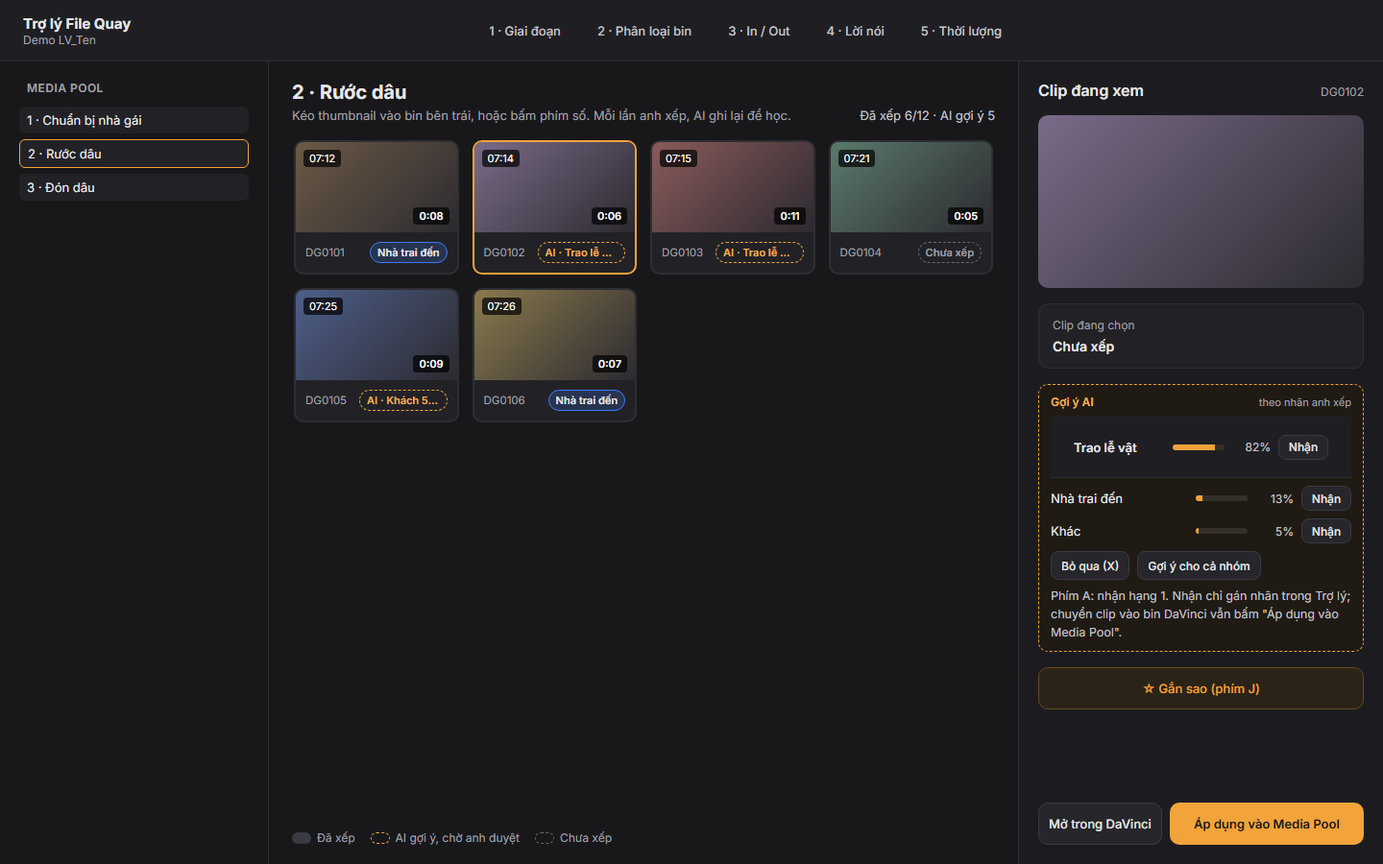
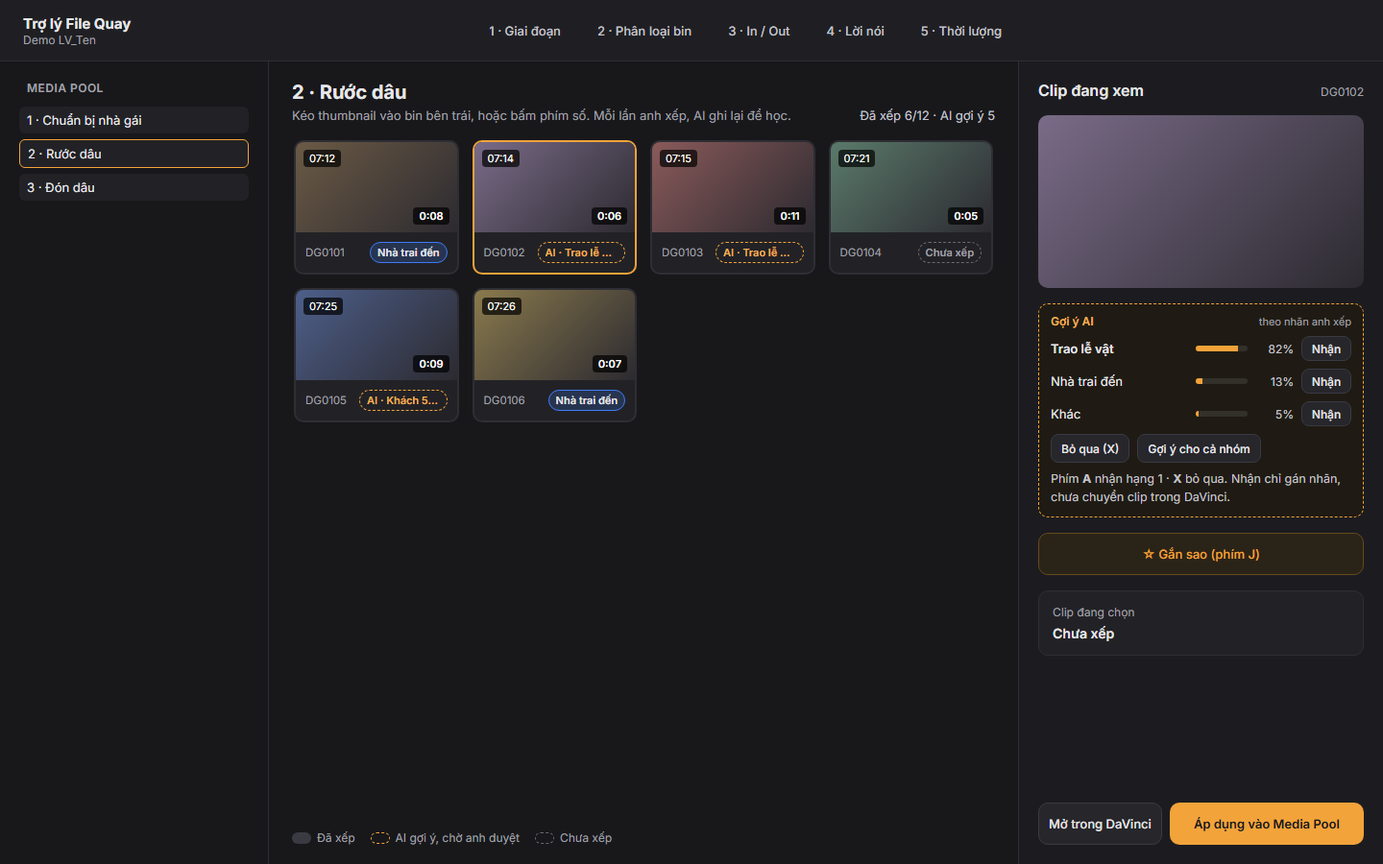
Gợi ý AI trong Bước 2 của panel: hộp hạng 1-3, Nhận/Bỏ qua, nhóm, phím A/X, chạy nền; ADR-0022; 4 bài test giao diện

Changed region(s): [[0.75, 0.3422, 0.9688, 0.6222], [0.75, 0.6222, 0.9688, 0.7467], [0.8438, 0.7778, 0.9062, 0.8089]]

diff --git a/app/troly_web/ai.js b/app/troly_web/ai.js
@@ -1,0 +1,131 @@
+/* Bước 2: Gợi ý AI (ADR-0022; demo design/6_ai_goi_y). CHỈ GỢI Ý: "Nhận" chỉ gán nhãn trong Trợ lý (api().ai_accept), không gọi DaVinci.
+   Chuyển clip vào bin trong DaVinci vẫn là nút "Áp dụng vào Media Pool" (có nhật ký + Hoàn tác). Phím đọc bằng event.code. */
+const AI = { info: null, cache: {}, group: null, poll: null, wasRunning: false, seq: 0 };
+const AI_MIN_GROUP = 0.7;                                   // ngưỡng "Nhận hạng 1 cho clip có điểm từ 70%"
+
+function aiPct(x) { return Math.round(x * 100); }
+function aiSrcText(src) { return src === "nhan" ? "theo nhãn anh xếp" : "theo mô tả"; }
+function aiKey(uid) {                                          // khóa để vẽ lại thẻ khi gợi ý đổi
+  const g = AI.group && AI.group[uid]; return g && g.top ? g.top[0].bin + aiPct(g.top[0].score) : "";
+}
+
+async function aiRefreshInfo() {
+  try { AI.info = await api().ai_info(); } catch (e) { AI.info = null; }
+  if (AI.info && AI.info.running && !AI.poll) AI.poll = setInterval(aiTick, 1500);
+  if (AI.info && !AI.info.running && AI.poll) { clearInterval(AI.poll); AI.poll = null; }
+  return AI.info;
+}
+async function aiTick() {
+  const was = AI.info && AI.info.running;
+  await aiRefreshInfo();
+  if (was && AI.info && !AI.info.running) {                    // vừa chạy xong (hoặc bị dừng): làm mới gợi ý
+    AI.cache = {};
+    if (AI.group) await aiGroupLoad();
+    status(AI.info.has_data ? "AI đã chạy xong. Có gợi ý cho clip chưa xếp." : "AI đã dừng. Bấm Chạy AI để làm tiếp.");
+  }
+  aiBoxRender();
+}
+
+async function aiForCur() {
+  const c = items[cur]; if (!c) return null;
+  const k = c.uid + "|" + (c.label || "");
+  if (AI.cache[k] === undefined) {
+    const r = await api().ai_for([c.uid]);
+    AI.cache[k] = r[c.uid] || null;
+  }
+  return AI.cache[k];
+}
+
+function aiButtons(list) {                                      // list: [[id, chữ, tắt?]]
+  $("aiActs").innerHTML = list.map(([id, t, off, tip]) => `<button class="btn" id="${id}"${off ? " disabled" : ""}${tip ? ` title="${esc(tip)}"` : ""}>${esc(t)}</button>`).join("");
+}
+
+async function aiBoxRender() {
+  const box = $("aiBox"); if (!box || page !== 2) return;
+  const mySeq = ++AI.seq;
+  const info = AI.info || await aiRefreshInfo();
+  if (mySeq !== AI.seq) return;
+  const c = items[cur];
+  $("aiSrc").textContent = info && info.has_data ? aiSrcText(info.mode) : "";
+  if (!info) { $("aiBody").innerHTML = '<span class="ai-msg">Chưa đọc được trạng thái AI.</span>'; aiButtons([]); return; }
+  if (info.running) {
+    $("aiBody").innerHTML = `<span class="ai-msg">AI đang chạy nền (không ảnh hưởng DaVinci)…<br>${esc(info.log || "")}</span>`;
+    aiButtons([["aiStop", "Dừng"]]); return;
+  }
+  if (!info.has_data) {
+    $("aiBody").innerHTML = '<span class="ai-msg">Chưa chạy AI cho project này. AI so thumbnail với mô tả từng bin (và học từ nhãn anh xếp khi đủ ' + info.min_labels + ' clip). Chạy trên máy này, mất vài giây đến vài phút.</span>';
+    aiButtons([["aiRun", "Chạy AI (nền)", !info.can_run, info.can_run ? "" : "Chưa có venv AI hoặc model, xem ADR-0020"]]); return;
+  }
+  const grp = AI.group ? Object.values(AI.group).filter((g) => g.top) : null;
+  const acts = [];
+  let body = "";
+  if (!c) body = '<span class="ai-msg">Chọn một clip để xem gợi ý.</span>';
+  else if (c.label) body = `<span class="ai-msg">Clip đã xếp vào "${esc(c.label)}", không gợi ý. (Bấm 0 để bỏ nhãn.)</span>`;
+  else {
+    const r = await aiForCur();
+    if (mySeq !== AI.seq) return;
+    if (r && r.skipped) { body = '<span class="ai-msg">Đã bỏ qua gợi ý cho clip này.</span>'; acts.push(["aiUnskip", "Hiện lại gợi ý"]); }
+    else if (!r) body = '<span class="ai-msg">Clip này chưa có gợi ý (chưa có thumbnail/vector, hoặc chưa thuộc giai đoạn nào). Bấm "Chạy lại AI" để cập nhật.</span>';
+    else {
+      $("aiSrc").textContent = aiSrcText(r.src);
+      body = r.top.map((t, i) => `<div class="ai-row${i === 0 ? " first" : ""}"><span class="nm" title="${esc(t.bin)}">${esc(t.bin)}</span><span class="ai-bar"><i style="width:${aiPct(t.score)}%"></i></span><span class="pc">${aiPct(t.score)}%</span><button class="btn" data-ai-take="${esc(t.bin)}">Nhận</button></div>`).join("");
+      acts.push(["aiSkip", "Bỏ qua (X)"]);
+    }
+  }
+  if (grp) {
+    const n = grp.filter((g) => g.top[0].score >= AI_MIN_GROUP).length;
+    body += `<span class="ai-msg">Nhóm đang xem: ${grp.length} clip có gợi ý (thẻ viền đứt trên lưới), ${n} clip từ ${aiPct(AI_MIN_GROUP)}%.</span>`;
+    acts.push(["aiTakeAll", `Nhận hạng 1 cho ${n} clip`, !n], ["aiGroupOff", "Tắt gợi ý nhóm"]);
+  } else acts.push(["aiGroup", "Gợi ý cho cả nhóm"]);
+  acts.push(["aiRun", "Chạy lại AI", !info.can_run]);
+  $("aiBody").innerHTML = body;
+  aiButtons(acts);
+}
+
+async function aiGroupLoad() {
+  const uids = items.map((c) => c.uid);
+  AI.group = await api().ai_for(uids);
+  for (const u in AI.group) if (AI.group[u].skipped) delete AI.group[u];
+  patchGrid();
+}
+
+async function aiTake(pairs) {                                  // pairs: [[uid, bin]] -> chỉ gán nhãn trong kế hoạch Trợ lý
+  if (!pairs.length) return;
+  keepCur = cur;
+  const st = await api().ai_accept(pairs);
+  if (st.error) { keepCur = null; return status(st.error, "warn"); }
+  AI.cache = {};
+  setState(st);
+  keepCur = null;
+  if (AI.group) { for (const [u] of pairs) delete AI.group[u]; patchGrid(); }
+  status(`Đã nhận ${st.ai_accepted} gợi ý (chỉ gán nhãn trong Trợ lý; chưa chuyển gì trong DaVinci).` + (st.ai_bad ? ` ${st.ai_bad} clip bị bỏ qua vì bin không thuộc giai đoạn.` : ""));
+  if (pairs.length === 1 && cur < items.length - 1) moveCur(cur + 1);
+  aiBoxRender();
+}
+
+$("aiBox").addEventListener("click", async (e) => {
+  const t = e.target.closest("button"); if (!t || t.disabled) return;
+  const c = items[cur];
+  if (t.dataset.aiTake && c) return aiTake([[c.uid, t.dataset.aiTake]]);
+  if (t.id === "aiRun") { const r = await api().ai_run(); if (r.error) return status(r.error, "warn"); AI.info = r; AI.cache = {}; await aiRefreshInfo(); return aiBoxRender(); }
+  if (t.id === "aiStop") { AI.info = await api().ai_stop(); status("Đã gửi lệnh dừng; AI dừng sau lô ảnh hiện tại. Chạy lại để làm tiếp."); return aiBoxRender(); }
+  if (t.id === "aiSkip" && c) { await api().ai_skip([c.uid]); AI.cache = {}; if (AI.group) delete AI.group[c.uid]; patchGrid(); return aiBoxRender(); }
+  if (t.id === "aiUnskip" && c) { await api().ai_skip([c.uid], true); AI.cache = {}; return aiBoxRender(); }
+  if (t.id === "aiGroup") { await aiGroupLoad(); return aiBoxRender(); }
+  if (t.id === "aiGroupOff") { AI.group = null; patchGrid(); return aiBoxRender(); }
+  if (t.id === "aiTakeAll" && AI.group) {
+    const pairs = items.filter((x) => AI.group[x.uid] && AI.group[x.uid].top && AI.group[x.uid].top[0].score >= AI_MIN_GROUP).map((x) => [x.uid, AI.group[x.uid].top[0].bin]);
+    const ok = await ask("Nhận gợi ý AI cho cả nhóm", `Gán nhãn hạng 1 của AI cho <b>${pairs.length}</b> clip (điểm từ ${aiPct(AI_MIN_GROUP)}%). Chỉ ghi nhãn trong Trợ lý; chưa chuyển gì trong DaVinci, anh vẫn bấm "Áp dụng vào Media Pool" khi muốn. Bỏ nhãn từng clip bằng phím 0.`, "Nhận " + pairs.length + " clip");
+    if (ok) aiTake(pairs);
+  }
+});
+
+document.addEventListener("keydown", (e) => {                   // A nhận hạng 1, X bỏ qua; chỉ ở Bước 2, không khi đang gõ chữ
+  if (page !== 2 || e.ctrlKey || e.altKey || e.metaKey || e.shiftKey) return;
+  if (/INPUT|SELECT|TEXTAREA/.test(e.target.tagName) || e.target.isContentEditable) return;
+  if (e.code !== "KeyA" && e.code !== "KeyX") return;
+  const c = items[cur]; if (!c || c.label || !AI.info || !AI.info.has_data || AI.info.running) return;
+  e.preventDefault();
+  if (e.code === "KeyX") { const b = $("aiSkip"); if (b) b.click(); return; }
+  const first = document.querySelector("#aiBody [data-ai-take]"); if (first) first.click();
+});

diff --git a/app/troly_web/app.js b/app/troly_web/app.js
@@ -465,8 +465,12 @@ function sameItems() {
 function tagHtml(c) {
   const s = stageObj();
   const b = s && c.label ? s.bins.find((x) => x.name === c.label) : null;
-  return b ? `<span class="tag" style="background:${b.color}33;color:var(--text);border:1px solid ${b.color}">${esc(b.name)}</span>` : `<span class="tag none">Chưa xếp</span>`;
+  if (b) return `<span class="tag" style="background:${b.color}33;color:var(--text);border:1px solid ${b.color}">${esc(b.name)}</span>`;
+  const g = !c.label && AI.group && AI.group[c.uid];                      // gợi ý AI của cả nhóm (ai.js): viền đứt, chờ anh duyệt
+  if (g && g.top) return `<span class="tag ai" title="${esc("AI gợi ý (chờ anh duyệt): " + g.top.map((t) => t.bin + " " + Math.round(t.score * 100) + "%").join(" · "))}">AI · ${esc(g.top[0].bin)} ${Math.round(g.top[0].score * 100)}%</span>`;
+  return `<span class="tag none">Chưa xếp</span>`;
 }
+function cardKey(c) { return (c.label || "") + "|" + aiKey(c.uid); }
 function setThumb(box, src) {
   let img = box.querySelector("img");
   if (!img) { img = document.createElement("img"); img.draggable = false; box.prepend(img); const ic = box.querySelector("svg"); if (ic) ic.remove(); }
@@ -475,7 +479,7 @@ function setThumb(box, src) {
 const PLAY = '<svg width="28" height="28" viewBox="0 0 24 24" fill="none" stroke="#FFFFFF" stroke-opacity="0.55" stroke-width="1.6" stroke-linecap="round" stroke-linejoin="round" aria-hidden="true"><rect x="3" y="5" width="18" height="14" rx="2"></rect><path d="M10 9.5l4 2.5-4 2.5z"></path></svg>';
 function renderGrid() {
   $("grid").innerHTML = items.length ? items.map((c, i) => `
-    <div class="card${i === cur ? " cur" : sel.has(i) ? " picked" : ""}${c.star ? " starred" : ""}" data-i="${i}" data-uid="${esc(c.uid)}" data-label="${esc(c.label || "")}" draggable="true">
+    <div class="card${i === cur ? " cur" : sel.has(i) ? " picked" : ""}${c.star ? " starred" : ""}" data-i="${i}" data-uid="${esc(c.uid)}" data-label="${esc(cardKey(c))}" draggable="true">
       <div class="thumb">${thumbs[c.uid] ? `<img src="${thumbs[c.uid]}" draggable="false">` : PLAY}<span class="badge tl">${c.time}</span><span class="badge br">${durTxt(c.dur)}</span>${c.star ? '<span class="star-badge">★</span>' : ""}</div>
       <div class="card-foot"><span class="f">${esc(c.name)}</span>${tagHtml(c)}</div>
     </div>`).join("") : `<div class="empty">${S && S.n ? "Không có clip." : 'Bấm "Đọc clip" ở bước 1 trước.'}</div>`;
@@ -488,7 +492,7 @@ function patchGrid() {
     const hasStar = !!el.querySelector(".star-badge");
     if (!!c.star !== hasStar) { if (c.star) el.querySelector(".thumb").insertAdjacentHTML("beforeend", '<span class="star-badge">★</span>'); else el.querySelector(".star-badge").remove(); }
     if (el.className !== cls) el.className = cls;               // chỉ đổi class, không dựng lại ô
-    const key = c.label || "";
+    const key = cardKey(c);
     if (el.dataset.label !== key) { el.dataset.label = key; el.querySelector(".tag").outerHTML = tagHtml(c); }
   });
 }
@@ -789,6 +793,7 @@ async function showCur() {
   $("starToggleBtn").textContent = c.star ? "★ Bỏ sao (phím J)" : "☆ Gắn sao (phím J)";
   $("starToggleBtn").classList.toggle("active", !!c.star);
   renderPage3Cur(c);
+  aiBoxRender();                                           // hộp Gợi ý AI (ai.js)
   $("curBin").textContent = c.label ? c.label : "Chưa xếp";
   const src = { created: "Date Created", modified: "Date Modified − độ dài", none: "không rõ" }[c.src] || c.src;
   $("curInfo").textContent = `Giờ quay ${c.time} (${src}) · dài ${durTxt(c.dur)}\nMáy ${c.camera}\nHình: ${notes[c.uid] || "đang làm..."}\nLUT: ${c.lut || "(không gắn)"}` +

diff --git a/design/6_ai_goi_y/index.html b/design/6_ai_goi_y/index.html
@@ -22,16 +22,16 @@
 <aside class="col-right">
   <div class="row-between baseline"><h2>Clip đang xem</h2><span class="dim12">DG0102</span></div>
   <div class="preview" style="background:linear-gradient(135deg,#7a6b88,#2c2a30);height:180px"></div>
-  <div class="info-box"><span class="dim12">Clip đang chọn</span><span class="b14">Chưa xếp</span></div>
   <div class="ai-box">
     <div class="ai-head"><span class="ai-title">Gợi ý AI</span><span class="ai-src">theo nhãn anh xếp</span></div>
     <div class="ai-row first"><span class="nm">Trao lễ vật</span><span class="ai-bar"><i style="width:82%"></i></span><span class="pc">82%</span><button class="btn">Nhận</button></div>
     <div class="ai-row"><span class="nm">Nhà trai đến</span><span class="ai-bar"><i style="width:13%"></i></span><span class="pc">13%</span><button class="btn">Nhận</button></div>
     <div class="ai-row"><span class="nm">Khác</span><span class="ai-bar"><i style="width:5%"></i></span><span class="pc">5%</span><button class="btn">Nhận</button></div>
     <div class="ai-acts"><button class="btn">Bỏ qua (X)</button><button class="btn">Gợi ý cho cả nhóm</button></div>
-    <span class="ai-msg">Phím A: nhận hạng 1. Nhận chỉ gán nhãn trong Trợ lý; chuyển clip vào bin DaVinci vẫn bấm "Áp dụng vào Media Pool".</span>
+    <span class="ai-msg">Phím <b>A</b> nhận hạng 1 · <b>X</b> bỏ qua. Nhận chỉ gán nhãn, chưa chuyển clip trong DaVinci.</span>
   </div>
   <button class="btn btn-star btn-44">☆ Gắn sao (phím J)</button>
+  <div class="info-box"><span class="dim12">Clip đang chọn</span><span class="b14">Chưa xếp</span></div>
   <div class="flex1"></div>
   <div class="v8"><div class="inline8"><button class="btn btn-44">Mở trong DaVinci</button><button class="btn-accent btn-44 flex1">Áp dụng vào Media Pool</button></div></div>
 </aside>

diff --git a/app/troly_web/index.html b/app/troly_web/index.html
@@ -133,7 +133,7 @@
     </div>
     <div class="legend">
       <span><i class="pill-solid"></i>Đã xếp</span>
-      <span class="legend-off"><i class="pill-ai"></i>AI gợi ý, chờ anh duyệt (sắp có)</span>
+      <span><i class="pill-ai"></i>AI gợi ý, chờ anh duyệt</span>
       <span><i class="pill-none"></i>Chưa xếp</span>
       <span class="flex1"></span>
       <button class="btn-link hidden" id="undoBtn2">Hoàn tác lần chuyển gần nhất</button>
@@ -158,6 +158,12 @@
         <div class="row-between dim12"><span id="plTime">00:00:00 / 00:00:00</span><span id="plNote"></span></div>
       </div>
     </div></div>
+    <div class="ai-box" id="aiBox">
+      <div class="ai-head"><span class="ai-title">Gợi ý AI</span><span class="ai-src" id="aiSrc"></span></div>
+      <div id="aiBody"></div>
+      <div class="ai-acts" id="aiActs"></div>
+      <span class="ai-msg">Phím <b>A</b> nhận hạng 1 · <b>X</b> bỏ qua. Nhận chỉ gán nhãn, chưa chuyển clip trong DaVinci.</span>
+    </div>
     <button class="btn btn-star btn-44" id="starToggleBtn">☆ Gắn sao (phím J)</button>
     <span class="dim12">Đặt điểm In / Out ở bước 3 · In / Out (có sóng âm và bảng quy tắc).</span>
     <div class="info-box">
@@ -342,5 +348,6 @@
 <script src="player.js"></script>
 <script src="speech.js"></script>
 <script src="step3.js"></script>
+<script src="ai.js"></script>
 </body>
 </html>

diff --git a/app/troly_web/style.css b/app/troly_web/style.css
@@ -457,3 +457,6 @@ button, input, select { font-family: inherit; }
 .ai-acts { display: flex; gap: 8px; flex-wrap: wrap; }
 .ai-acts .btn { height: 30px; padding: 0 10px; font-size: 12px; }
 .tag.ai { border: 1px dashed var(--accent); color: var(--link); background: transparent; }
+/* cột phải Bước 2 dài hơn màn hình thấp: hai nút Áp dụng luôn dính đáy, phần còn lại cuộn */
+#page2 .col-right .v8 { position: sticky; bottom: -20px; background: var(--right); padding: 10px 0 20px; margin-bottom: -20px; z-index: 3; }
+#page2 .col-right > :not(.flex1) { flex-shrink: 0; }          /* cột dài hơn màn hình thì cuộn, không bóp nút/ô */

diff --git a/tests/test_troly_ai_web.py b/tests/test_troly_ai_web.py
@@ -1,0 +1,47 @@
+"""Giao diện gợi ý AI ở Bước 2 (ADR-0022): phần tử có mặt, chữ hướng dẫn có chức năng thật, phím đọc bằng event.code, không gọi DaVinci."""
+import os
+import re
+import unittest
+
+WEB = os.path.join(os.path.dirname(os.path.abspath(__file__)), "..", "app", "troly_web")
+
+
+def rd(n):
+    with open(os.path.join(WEB, n), encoding="utf-8") as f:
+        return f.read()
+
+
+class AiWeb(unittest.TestCase):
+    def setUp(self):
+        self.html, self.js, self.app = rd("index.html"), rd("ai.js"), rd("app.js")
+
+    def test_phan_tu_va_id_khong_trung(self):
+        for i in ('id="aiBox"', 'id="aiSrc"', 'id="aiBody"', 'id="aiActs"'):
+            self.assertEqual(self.html.count(i), 1, i)
+        self.assertIn('<script src="ai.js"></script>', self.html)
+        ids = re.findall(r'\bid="([^"]+)"', self.html)
+        self.assertEqual(len(ids), len(set(ids)))
+        p2 = self.html[self.html.index('id="page2"'):self.html.index('id="page3"')]
+        self.assertIn('id="aiBox"', p2)                                                       # hộp nằm ở Bước 2
+
+    def test_chu_huong_dan_co_chuc_nang_that(self):
+        self.assertIn("Phím <b>A</b> nhận hạng 1", self.html)
+        self.assertIn('e.code !== "KeyA" && e.code !== "KeyX"', self.js)                      # A nhận, X bỏ qua
+        for fn in ("ai_info", "ai_for", "ai_accept", "ai_skip", "ai_run", "ai_stop"):
+            self.assertIn("api()." + fn, self.js, fn)
+        self.assertIn("AI gợi ý, chờ anh duyệt</span>", self.html)                            # chú thích lưới không còn "sắp có"
+        self.assertIn('class="tag ai"', self.app)                                             # thẻ gợi ý viền đứt trên lưới
+
+    def test_phim_doc_bang_event_code_va_bo_qua_o_go_chu(self):
+        self.assertNotRegex(self.js, r"\be\.key\b")
+        self.assertIn("INPUT|SELECT|TEXTAREA", self.js)
+        self.assertIn("page !== 2", self.js)
+
+    def test_khong_goi_davinci_tu_gio_dien_ai(self):
+        for bad in ("api().apply", "api().move(", "api().append", "inout_write", "SetMarkInOut", "MoveClips", "api().label(", "api().undo"):
+            self.assertNotIn(bad, self.js, bad)
+        self.assertIn("await ask(", self.js[self.js.index('t.id === "aiTakeAll"'):])           # nhận cả nhóm phải qua hộp xác nhận
+
+
+if __name__ == "__main__":
+    unittest.main()

diff --git a/docs/adr/0022-goi-y-ai-trong-buoc-2-hoc-tu-nhan-tay.md b/docs/adr/0022-goi-y-ai-trong-buoc-2-hoc-tu-nhan-tay.md
@@ -1,0 +1,29 @@
+# ADR-0022: Gợi ý AI trong Bước 2 của panel, học từ nhãn tay
+
+Ngày 18/11/2026. Trạng thái: đã code + thử trong bàn thử trình duyệt với DaVinci thật (chỉ đọc); CHƯA mở cửa sổ pywebview thật; giao diện và demo CHƯA được người dùng duyệt (miễn duyệt trước lượt này).
+
+## Quyết định
+- AI chỉ GỢI Ý. "Nhận" chỉ gán NHÃN trong kế hoạch panel (`by = "ai_duyet"`), như người dựng xếp tay; chuyển clip vào bin trong DaVinci vẫn qua nút "Áp dụng vào Media Pool" (có nhật ký + Hoàn tác như cũ). AI không gọi DaVinci (có test chặn trong `troly_ai.py`, `ai.js` và các hàm `ai_*`).
+- Nguồn gợi ý, chọn theo từng project:
+  - từ 20 clip đã xếp tay (có vector) trở lên và ít nhất 3 clip đã xếp trong các bin của giai đoạn đang xét: học từ nhãn (kNN k=7 trên vector OpenCLIP, nhiệt độ 20), hiện "theo nhãn anh xếp";
+  - ít hơn: theo mô tả bin (ADR-0020), hiện "theo mô tả".
+- Thu hẹp theo giai đoạn: chỉ xét các bin của giai đoạn mà clip đang thuộc (giai đoạn đã tính theo giờ quay hoặc chọn tay). Điểm chuẩn hóa trong các bin đó, hạng 1-3.
+- Giao diện (cột phải Bước 2, theo design/6_ai_goi_y): hộp "Gợi ý AI" ngay dưới trình phát: 3 hàng bin + thanh điểm + % + nút Nhận; Bỏ qua (phím X), Nhận hạng 1 (phím A), "Gợi ý cho cả nhóm" (thẻ viền đứt trên lưới + "Nhận hạng 1 cho N clip" từ 70%, có hộp xác nhận), Chạy AI / Chạy lại / Dừng (nền, venv AI, dừng bằng cờ STOP, chạy tiếp được). Chưa chạy AI: hiện "Chưa chạy AI" và nút chạy. Hai nút Áp dụng dính đáy cột phải để không bị đẩy khỏi màn hình thấp (cột phải vốn dài hơn 900 px).
+- "Bỏ qua" lưu `plan["ai_skip"]` (chỉ trong kế hoạch panel). Gợi ý chỉ cho clip chưa xếp.
+
+## Số đo (project có 324 clip đã xếp tay; chỉ xét bin trong giai đoạn của clip)
+| Cách | hạng 1 | trong 3 đầu |
+|---|---|---|
+| Theo mô tả | 47% | 86% |
+| Học từ nhãn, bỏ từng clip ra (LOO, lạc quan vì clip liền kề giống nhau) | 85% | 97% |
+| Học từ nhãn, học 60% clip quay SỚM, đoán 40% quay MUỘN (sát thực tế) | 53% | 90% |
+
+Nhận xét: tách theo giai đoạn đã nâng "theo mô tả" từ 17% lên 47% (ADR-0020 đo trên cả 13 bin). Học từ nhãn hơn mô tả rõ khi các clip cùng cảnh nằm cả hai phía; với cảnh mới (chia theo giờ) chỉ hơn ~6 điểm ở hạng 1, nhưng hạng 3 đạt 90%: nên dùng như danh sách 3 lựa chọn để duyệt nhanh, không tin tuyệt đối.
+Chỉ 1/4 project có đủ nhãn tay (3 project còn lại 0, 0, 4 nhãn) nên CHƯA đo chéo project (học project này, đoán project kia); công cụ `tools/ai_cross.py` đã sẵn và sẽ tự đo khi có ≥ 2 project đủ nhãn.
+
+## Bảng ghép tên bin giữa các project (ĐỀ XUẤT, chưa áp)
+Cả 4 project dùng chung bộ tên bin mẫu (13 tên), nên hiện chưa cần ghép; file đề xuất `D:\VideoAI\data\troly\ai_suggest\bin_name_map_proposal.json` liệt kê các nhóm tên trùng chữ (không phân biệt dấu/hoa thường). Các cặp gần nghĩa cần anh duyệt trước khi gộp để học chung giữa project: "Gia đình cô dâu" ~ "Gia đình", "Beauty cô dâu" ~ "Cô dâu chú rể". Chưa tự áp; học từ nhãn hiện chỉ dùng nhãn của chính project đang mở.
+
+## Đã thử thật / chưa
+- Đã: bộ test (12 bài panel + 4 bài giao diện), bàn thử trình duyệt dùng giao diện + TrolyApi thật, đọc DaVinci thật (project đang mở, chỉ đọc), kế hoạch/AI là bản sao tạm: gợi ý hạng 1-3, thẻ AI trên lưới, A, X, Nhận cả nhóm (hộp xác nhận, 119 clip, chỉ ghi nhãn), chuyển từ "theo mô tả" sang "theo nhãn" sau khi đủ nhãn, chạy AI nền bằng venv AI (8 giây, thoát đúng), 1440x900, 1100x700, 1707x960 (4K 150%) không tràn ngang. Kế hoạch thật không bị thay đổi (so với bản sao lưu trước khi làm).
+- Chưa: mở cửa sổ pywebview thật; nút Dừng khi đang nhúng dở (đã thử cờ STOP và làm tiếp ở dòng lệnh, ADR-0020); độ chính xác trên project mới chưa có nhãn (chỉ ~47% hạng 1, ~86% trong 3 đầu).

diff --git a/TRANG_THAI.md b/TRANG_THAI.md
@@ -77,9 +77,10 @@
 - Số liệu: D:\VideoAI\data	roly\inout_stats\ (index.html, by_bin.csv, vs_rules.csv). Giải thích + bảng đề xuất: docs/adr/0021. CHƯA áp vào panel; chờ anh duyệt bảng ghép tên bin và giá trị đề xuất.
 - Chưa tách Truyền thống/PSC (kế hoạch panel chưa chọn kiểu quay).
 
-## Bước 6 AI nhúng vào panel (18/11/2026, nhánh inout-ai) - ĐANG LÀM
-- Xong phần sau (commit 369f798): app/troly_ai.py + TrolyApi.ai_info/ai_for/ai_accept/ai_skip/ai_run/ai_stop (gợi ý hạng 1-3 theo bin của giai đoạn, học từ nhãn tay khi >= 20 nhãn, Nhận chỉ gán nhãn, Bỏ qua, chạy nền venv AI), tools/ai_cross.py (đo + đề xuất ghép tên bin).
-- CÒN DỞ: demo design/6_ai_goi_y, giao diện Bước 2 (nút Gợi ý AI, hộp hạng 1-3, Nhận/Bỏ qua), ADR-0022. Giao diện + demo CHƯA được anh duyệt.
+## Bước 6 AI nhúng vào panel (18/11/2026) - CHỜ ANH THỬ; demo + giao diện CHƯA được anh duyệt
+- Bước 2 có hộp "Gợi ý AI" (hạng 1-3, Nhận, Bỏ qua, gợi ý cả nhóm, phím A/X, Chạy/Dừng AI nền). Nhận chỉ gán nhãn trong Trợ lý, KHÔNG chuyển clip trong DaVinci. Demo: design/6_ai_goi_y. Quyết định + số đo: docs/adr/0022.
+- Đủ 20 nhãn tay thì học từ nhãn, không thì theo mô tả. Số đo: mô tả 47%/86% (hạng 1 / trong 3 đầu); học từ nhãn chia theo giờ 53%/90%.
+- Đã thử: bộ test, bàn thử trình duyệt với giao diện + TrolyApi thật + DaVinci thật (chỉ đọc), 1440x900 / 1100x700 / 1707x960. CHƯA mở cửa sổ pywebview thật. Chưa đo chéo project (chỉ 1 project đủ nhãn). Bảng ghép tên bin giữa project: file đề xuất, chờ anh duyệt.
 
 ## Việc tiếp theo (theo thứ tự)
 1. Bước 3 In/Out: XONG phần code (ADR-0019), chờ anh thử và duyệt demo. Còn: quy tắc tự tính In/Out nâng cao (hoãn), sửa bố cục theo ý anh.

diff --git a/CLAUDE.md b/CLAUDE.md
@@ -69,7 +69,7 @@ Quy trình:
 - app/troly_play.py: máy chủ phát proxy 127.0.0.1 (Range, chỉ trong proxy_root); app/troly_web/player.js: trình phát + kéo In/Out + nút Ghi In/Out (ADR-0016).
 - app/troly_thumbs.py: làm thumbnail bằng ffmpeg (proxy + LUT, 4 luồng, cache).
 - app/troly_speech.py (kéo âm lượng, VAD, Whisper, câu nghi bịa), troly_speech_store.py (kho SQLite mỗi project), troly_speech_run.py (chạy cả bin nền), troly_speech_srt.py (xuất/đọc lại SRT), do_loi_noi.py (đo). Giao diện bước 4: app/troly_web/speech.js. Quyết định: docs/adr/0014.
-- app/troly_ai.py: Bước 6 AI (ADR-0020): nhúng thumbnail bằng OpenCLIP ViT-B/32, gợi ý bin theo mô tả, trang báo cáo tĩnh. Chạy bằng venv AI: `C:\VideoAI_ai_venv\Scripts\python.exe app\troly_ai.py all --project "<tên>"`. Chưa có giao diện trong panel.
+- app/troly_ai.py: Bước 6 AI (ADR-0020): nhúng thumbnail bằng OpenCLIP ViT-B/32, gợi ý bin theo mô tả, trang báo cáo tĩnh. Chạy bằng venv AI: `C:\VideoAI_ai_venv\Scripts\python.exe app\troly_ai.py all --project "<tên>"`. Giao diện gợi ý ở Bước 2 (app/troly_web/ai.js, ADR-0022; demo design/6_ai_goi_y). Chỉ gợi ý, Nhận chỉ gán nhãn.
 - tools/inout_dump.py + tools/inout_stats.py: đọc In/Out thật từ project đã dựng (chỉ đọc DaVinci, đổi project rồi trả lại) và thống kê ra số (ADR-0021).
 - app/troly_env.py: đọc config.json, kết nối DaVinci, hộp báo lỗi.
 - install.py: cài mục menu "VideoAI Trợ lý File Quay" vào Workspace > Scripts. Sửa code trong app\ không cần cài lại,

diff --git a/CHANGELOG.md b/CHANGELOG.md
@@ -1,5 +1,11 @@
 # Nhật ký thay đổi
 
+## 2026-11-18 – Gợi ý AI trong Bước 2 của panel (ADR-0022) - CHỜ NGƯỜI DỰNG THỬ, giao diện/demo CHƯA được duyệt
+- Hộp "Gợi ý AI" cột phải Bước 2: hạng 1-3 + điểm, Nhận (gán nhãn, như xếp tay; không chạm DaVinci), Bỏ qua, gợi ý cho cả nhóm (thẻ viền đứt trên lưới, Nhận cả nhóm qua hộp xác nhận), phím A/X, Chạy/Dừng AI nền. Demo design/6_ai_goi_y.
+- Gợi ý chỉ xét bin của giai đoạn clip đang ở; đủ 20 nhãn tay thì học từ nhãn (kNN trên vector OpenCLIP), không thì theo mô tả. Đo (project 324 nhãn): mô tả 47%/86% (hạng 1/trong 3), học từ nhãn 85%/97% (LOO, lạc quan), chia theo giờ 53%/90%.
+- tools/ai_cross.py (đo + đề xuất ghép tên bin, chưa áp; chưa đo chéo project vì chỉ 1 project đủ nhãn). Hai nút Áp dụng dính đáy cột phải Bước 2.
+- 16 bài test mới (230 bài).
+
 ## 2026-11-18 – Thống kê In/Out thật từ project đã dựng (ADR-0021) - CHỜ NGƯỜI DỰNG DUYỆT ĐỀ XUẤT
 - tools/inout_dump.py (chỉ đọc DaVinci; sao lưu .drp trước; đổi project rồi mở lại đúng project gốc) + tools/inout_stats.py (số liệu, không tên khách). 2 project (P1, P2), 245 + 150 đoạn dùng trên timeline.
 - Kết quả: độ dài giữ ~3-4 s ở mọi bin; quy tắc hiện có trúng điểm vào 23%, ra 26% (P2); Phỏng vấn thực tế giữ ~7 s trích, không trọn câu. Đề xuất bảng mới trong ADR, CHƯA áp. Hình giống nhau không giúp đoán cách cắt (OpenCLIP).
